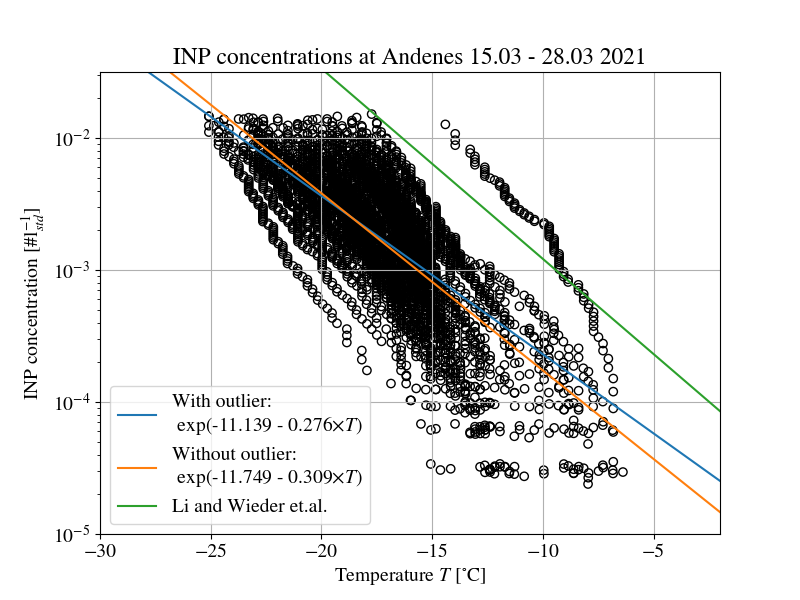
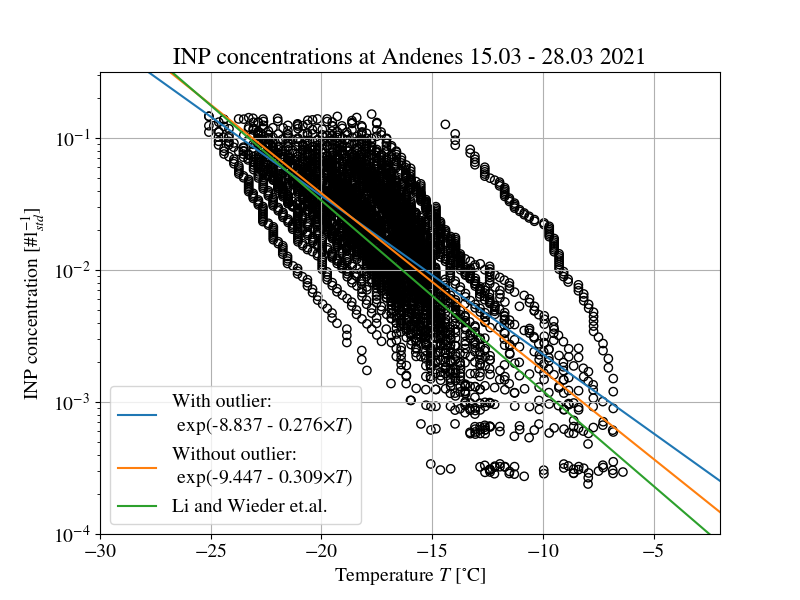
fixed order of magnitude wrong

diff --git a/observations/code/plottingOutlier.py b/observations/code/plottingOutlier.py
@@ -20,7 +20,7 @@ for i in range(nCor):
     nucleiT_i = nucleiT.iloc[:,i]
     nucleiOut_i = nucleiOut.iloc[:,i]
     if nucleiT_i.iloc[-2]>-10:
-        if nucleiOut_i[np.where(nucleiT_i > -10)[0][0]] > 1e-3:
+        if nucleiOut_i[np.where(nucleiT_i > -10)[0][0]] > 1e-2:
             outlier_sample = i
             print("Outlier: sample "+str(outlier_sample))
 
@@ -66,7 +66,7 @@ for i in range(nCor-1):
     plt.scatter(nucleiT.iloc[:,i],nucleiOut.iloc[:,i], alpha = alpha, color="none", edgecolor="black")
     alpha -= 0.0
 plt.yscale("log")
-plt.ylim(10**(-5),10**(-1.5))
+plt.ylim(10**(-4),10**(-0.5))
 plt.xlim(-30,-2)
 x = np.linspace(-30,-2,100)
 plt.plot(x, np.exp(intercept + slope*x), 

diff --git a/observations/code/plottingNormandCal.py b/observations/code/plottingNormandCal.py
@@ -47,7 +47,7 @@ for i in range(nCor):
     plt.scatter(nucleiT.iloc[:,i],nucleiOut.iloc[:,i], alpha = alpha, color="none", edgecolor="black")
     alpha -= 0.0
 plt.yscale("log")
-plt.ylim(10**(-5),10**(-1.5))
+plt.ylim(10**(-4),10**(-0.5))
 plt.xlim(-30,-2)
 x = np.linspace(-30,-2,100)
 plt.plot(x, np.exp(intercept + slope*x), label=str(round(intercept,2))+" - "+str(round(np.sign(slope)*slope,2))+r"$\times T$")

diff --git a/observations/code/plottingNormalizations.py b/observations/code/plottingNormalizations.py
@@ -36,7 +36,7 @@ for i in range(nCor):
                 alpha = alpha, color="none", edgecolor="black")
     alpha -= 0.01
 plt.yscale("log")
-plt.ylim(10**(-5),10**(-1.5))
+plt.ylim(10**(-4),10**(-0.5))
 plt.xlabel(r"Temperature $T$ [$^{\circ}$C]")
 plt.ylabel(r"$n_S(T)$ [l$^{-1}$]")
 plt.legend()
